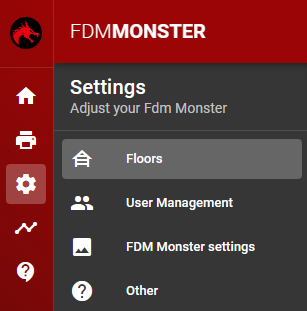
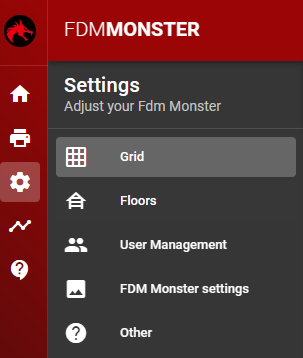
docs: write about the grid settings [skip ci]

diff --git a/docs/configuration/settings/grid_settings.md b/docs/configuration/settings/grid_settings.md
@@ -1,0 +1,28 @@
+---
+layout: default
+title: Grid Settings
+parent: Settings
+nav_order: 1
+last_modified_at: 2023-13-05T11:00:00+02:00
+---
+
+# Grid Settings
+
+The grid settings influence how many printers are shown in the grid.
+You can adjust the amount of rows and columns, as well as enable large tile mode.
+Both types of settings can be changed on the fly, without restarting the server.
+
+![Image](../../images/settings-grid-settings.png)
+
+## Grid Rows and Columns
+
+The amount of rows and columns can be adjusted by changing the values in the input fields.
+The grid will automatically update to reflect the new values.
+
+## Large Tile Mode
+
+The large tile mode can be enabled by clicking the toggle button.
+When enabled, the grid will show large tiles instead of small tiles.
+In large tile mode, the grid will show fewer printers, but more information about each printer.
+
+![Image](../../images/settings-grid-settings.png)

diff --git a/docs/configuration/settings.md b/docs/configuration/settings.md
@@ -3,7 +3,8 @@ layout: default
 title: Settings
 parent: Configuration
 nav_order: 2
-last_modified_at: 2023-10-05T14:00:00+02:00
+has_children: true
+last_modified_at: 2023-13-05T14:00:00+02:00
 ---
 
 # Settings
@@ -13,6 +14,10 @@ This section specifies the settings that can be changed once the FDM Monster ser
 Please visit this page on FDM Monster:
 
 ![Image](../images/settings.png)
+
+## Grid Settings
+The Grid Settings section allows you to change the number of rows and columns in the grid, as well as enabling large tile mode. This can be useful if you want to reduce the amount of available printers in your farm.
+Read more about it on the [grid settings page](./settings/grid_settings.md).
 
 ## Floors
 
